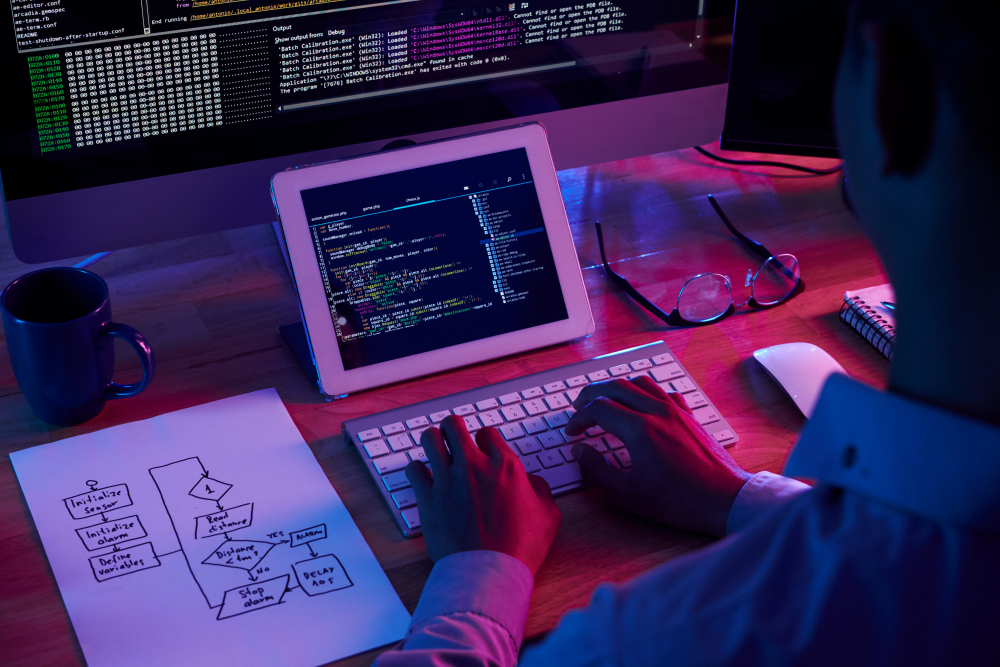
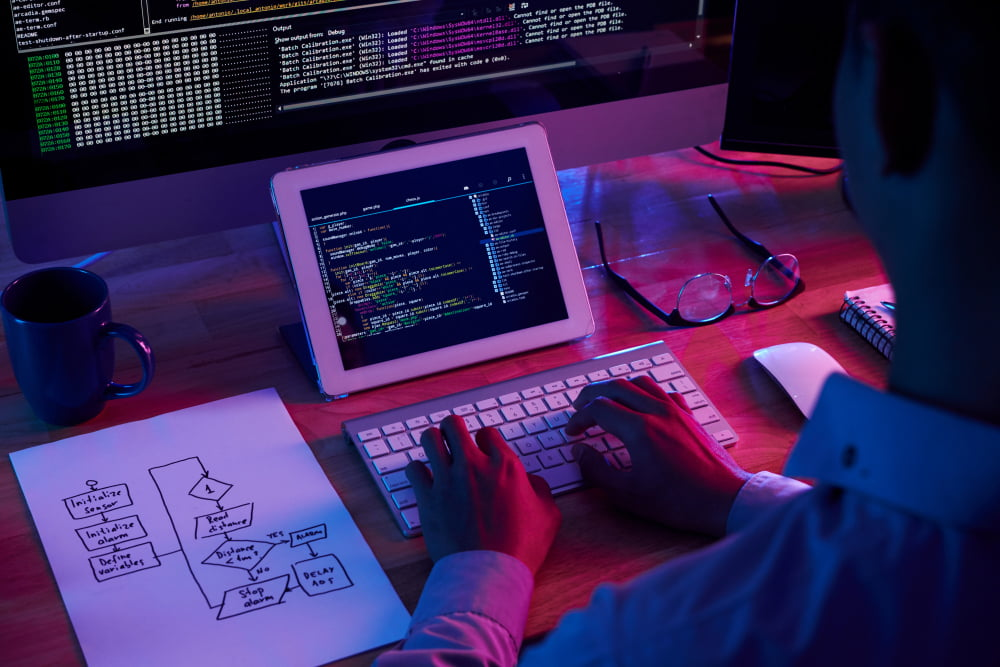
reduciendo tamaño de imagenes

diff --git a/pages/nosotros.html b/pages/nosotros.html
@@ -67,7 +67,7 @@
                     </div>
                     <div class="carousel-inner">
                         <div class="carousel-item active">
-                            <img src="../img/carr1.png" class="d-block w-100" alt="foto carrusel">
+                            <img src="../img/carr1.jpg" class="d-block w-100" alt="foto carrusel">
                             <div class="carousel-caption d-none d-md-block">
                                 <h5>Profesionalismo</h5>
                                 <p>Somos un equipo en continua capacitación y en constante crecimiento, para brindar lo
@@ -75,7 +75,7 @@
                             </div>
                         </div>
                         <div class="carousel-item">
-                            <img src="../img/carr2.png" class="d-block w-100" alt="foto carrusel">
+                            <img src="../img/carr2.jpg" class="d-block w-100" alt="foto carrusel">
                             <div class="carousel-caption d-none d-md-block">
                                 <h5>Cercanía con el cliente</h5>
                                 <p>Interactuamos con cada uno de nuestros clientes, interiorizandonos en sus proyectos e
@@ -83,7 +83,7 @@
                             </div>
                         </div>
                         <div class="carousel-item">
-                            <img src="../img/carr3.png" class="d-block w-100" alt="foto carrusel">
+                            <img src="../img/carr3.jpg" class="d-block w-100" alt="foto carrusel">
                             <div class="carousel-caption d-none d-md-block">
                                 <h5>Eficiencia y velocidad</h5>
                                 <p>Los proyectos de nuestros clientes obtienen buenos resultados en poco tiempo.</p>

diff --git a/pages/desarrolloweb.html b/pages/desarrolloweb.html
@@ -59,7 +59,7 @@
                 <div class="linea"></div>
                 <div class="contenedor__imagenes">
                     <div class="imagen">
-                        <img src="../img/html.png" alt="imagen html">
+                        <img src="../img/html.jpg" alt="imagen html">
                         <div class="nombre">
                             <h2>Lenguaje HTML</h2>
                         </div>
@@ -71,7 +71,7 @@
                         </div>
                     </div>
                     <div class="imagen">
-                        <img src="../img/js.png" alt="imagen js">
+                        <img src="../img/js.jpg" alt="imagen js">
                         <div class="nombre">
                             <h2>Lenguaje JavaScript</h2>
                         </div>
@@ -83,13 +83,13 @@
                         </div>
                     </div>
                     <div class="imagen">
-                        <img src="../img/backend.png" alt="imagen backend">
+                        <img src="../img/backend.jpg" alt="imagen backend">
                         <div class="nombre">
                             <h2>Programacion Backend</h2>
                         </div>
                     </div>
                     <div class="imagen">
-                        <img src="../img/webmobile.png" alt="imagen responsive">
+                        <img src="../img/webmobile.jpg" alt="imagen responsive">
                         <div class="nombre">
                             <h2>Responsive Web</h2>
                         </div>
